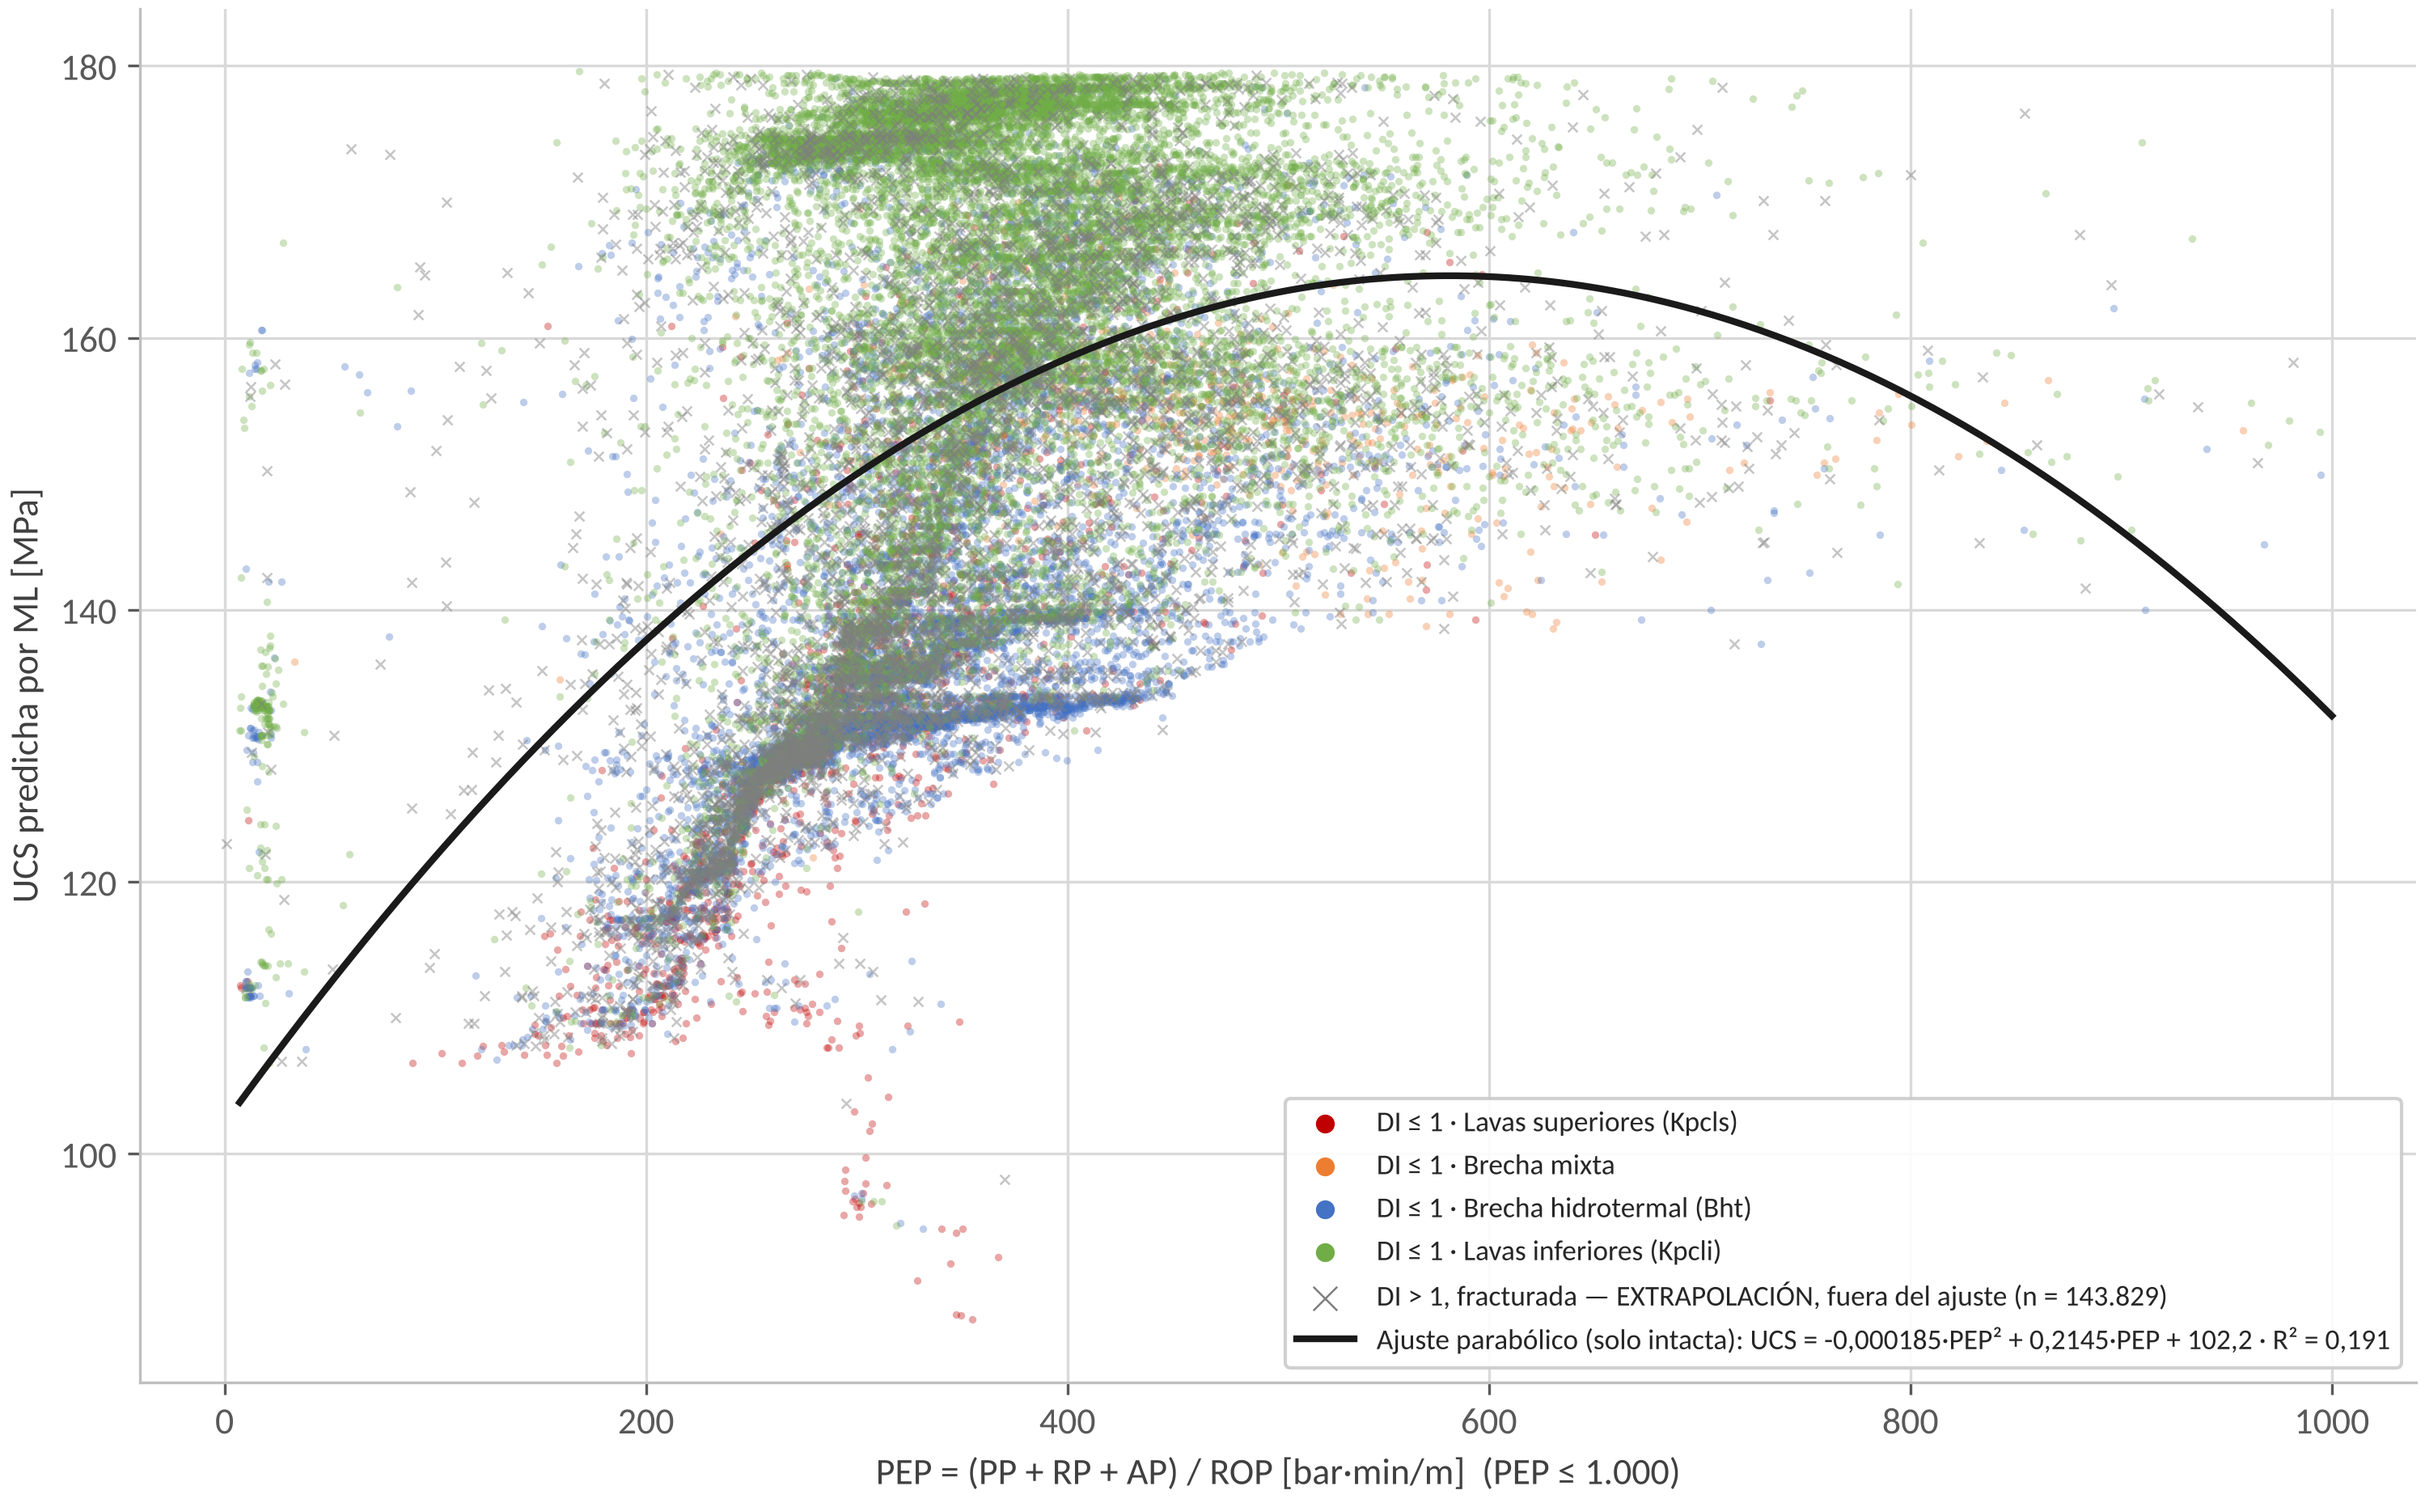
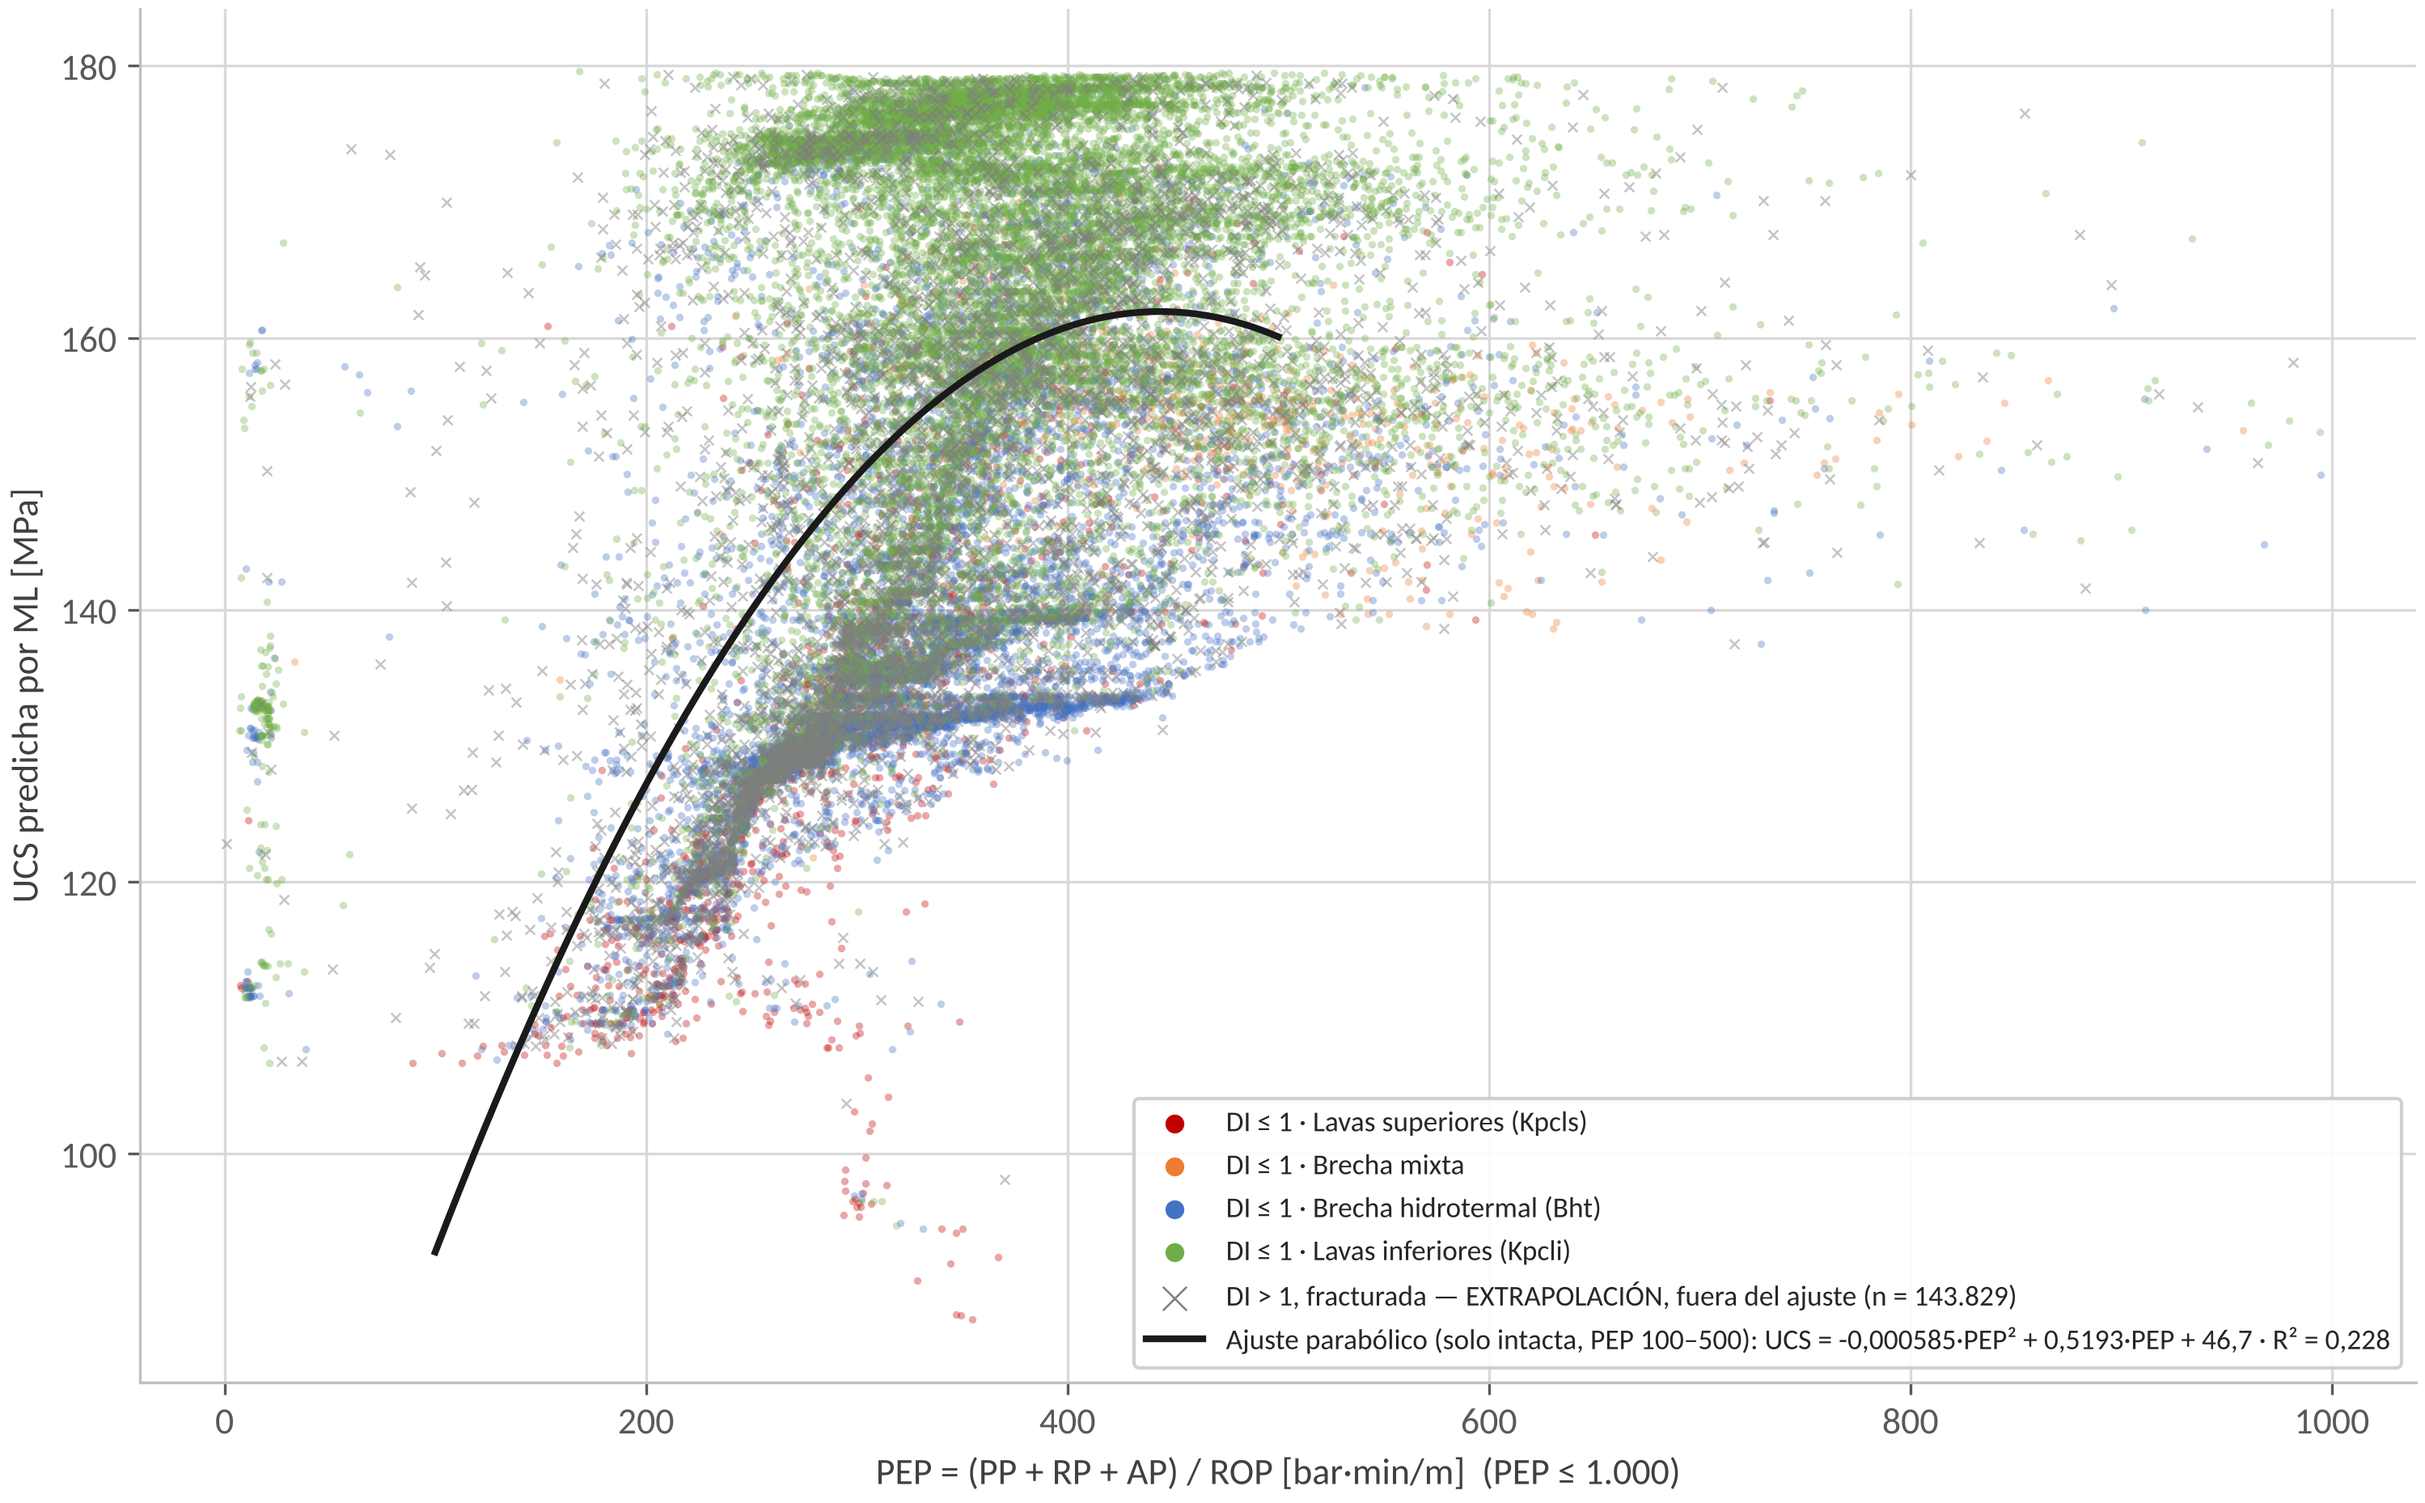
Ajuste PEP-UCS de roca intacta restringido a PEP 100-500
Claude-Session: https://claude.ai/code/session_01MT9AkNnHr1e9AMWji6YncB

diff --git a/memoria_final/final/final_figs.py b/memoria_final/final/final_figs.py
@@ -408,7 +408,8 @@ def _ecuacion(nom, c):
 
 di_ = S6["intacta"]; pep_i = np.array(di_["pep"]); u_i = np.array(di_["ucs_ml"]); lit_i = np.array(di_["lito"])
 mi = (pep_i <= 1000) & (pep_i > 0)
-AJ = _ajustes_intacta(pep_i[mi], u_i[mi])
+maj = mi & (pep_i >= 100) & (pep_i <= 500)   # el ajuste solo usa PEP 100–500
+AJ = _ajustes_intacta(pep_i[maj], u_i[maj])
 # Parsimonia: entre las formas a menos de 0,01 de R² del máximo, la de menos
 # coeficientes (el cúbico gana 0,005 al parabólico con un parámetro más).
 _NPAR = {"lineal": 2, "potencial": 2, "logarítmico": 2, "parabólico": 3, "saturación": 3, "cúbico": 4}
@@ -427,9 +428,9 @@ keep[np.random.default_rng(42).choice(pep_f.size, int(round(pep_f.size * df_["n"
 mf = keep & (pep_f <= 1000)
 ax.scatter(pep_f[mf], u_f[mf], s=8, marker="x", lw=0.6, alpha=0.45, color="#7F7F7F", rasterized=True,
            label=f"DI > {dec(UMB, 0)}, fracturada — EXTRAPOLACIÓN, fuera del ajuste (n = {mil(df_['n'])})")
-xx = np.linspace(max(5, pep_i[mi].min()), 1000, 400)
+xx = np.linspace(100, 500, 400)
 ax.plot(xx, AJ[mejor][1](xx), "-", color="#1a1a1a", lw=2,
-        label=f"Ajuste {mejor} (solo intacta): {_ecuacion(mejor, AJ[mejor][2])} · R² = {dec(AJ[mejor][0], 3)}")
+        label=f"Ajuste {mejor} (solo intacta, PEP 100–500): {_ecuacion(mejor, AJ[mejor][2])} · R² = {dec(AJ[mejor][0], 3)}")
 ax.set_xlim(-40, 1040)
 ax.set_xlabel("PEP = (PP + RP + AP) / ROP [bar·min/m]  (PEP ≤ 1.000)"); ax.set_ylabel("UCS predicha por ML [MPa]")
 ax.grid(True, axis="both")
